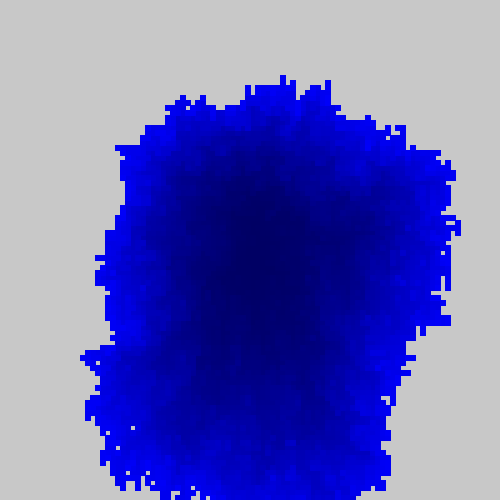
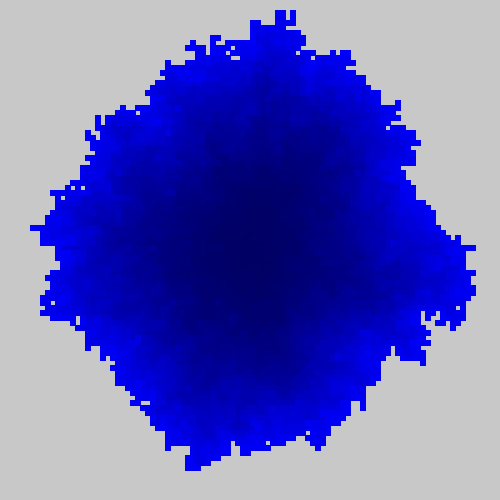
'fix'

diff --git a/main.py b/main.py
@@ -10,7 +10,7 @@ nodes = [(int(IMG_SIZE/2), int(IMG_SIZE/2))]
 
 while len(nodes) < NOF_NODES:
 	n = choice(nodes)
-	dir = randint(0, 4)
+	dir = randint(0, 3)
 	if dir == 0: 
 		m = n[0] - 1,  n[1]
 	elif dir == 1: 
